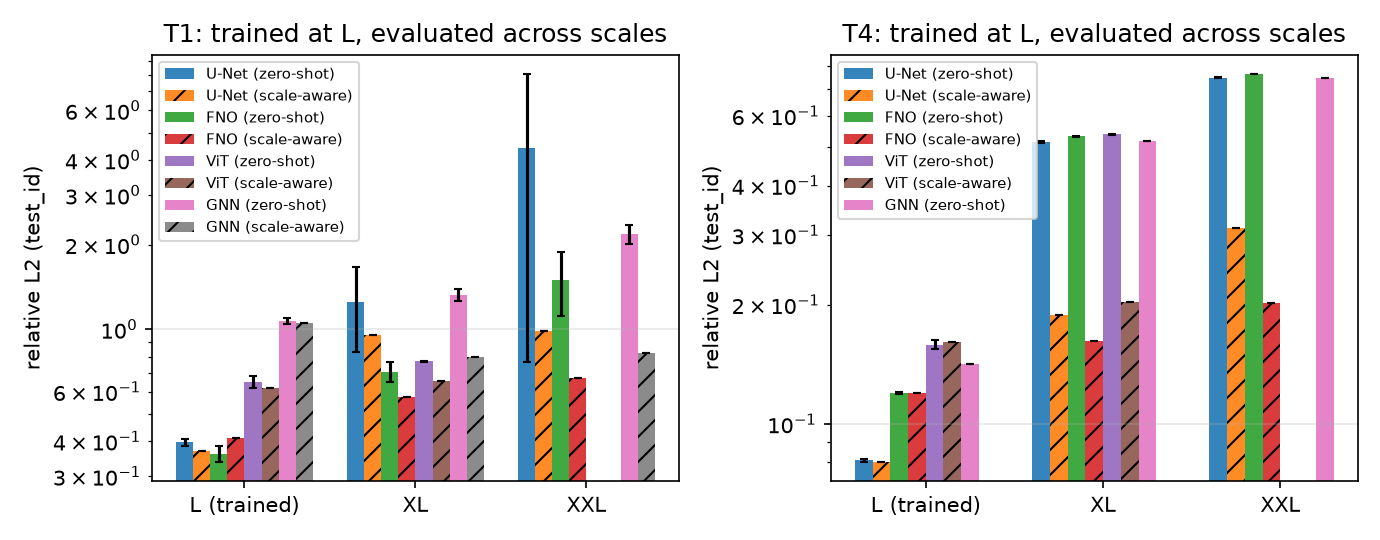
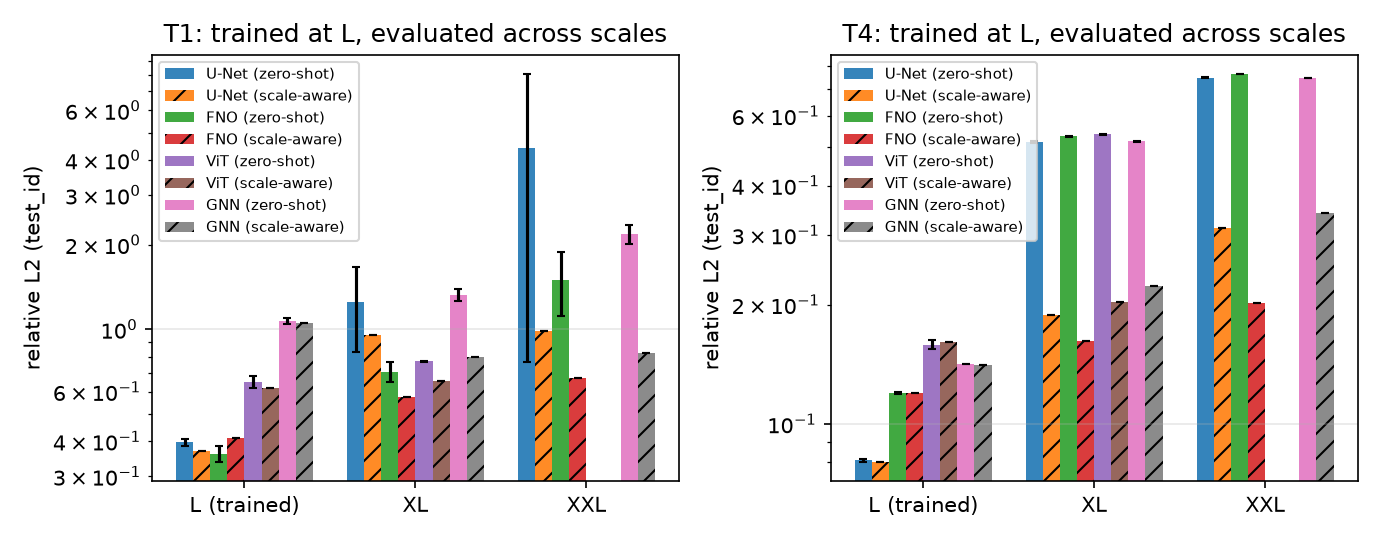
Phase 10-full final summary; all paper tables and figures regenerated from the complete results

diff --git a/docs/status/history.md b/docs/status/history.md
@@ -1544,3 +1544,233 @@ pinch-point recall 0.94 (precision 0.66 at 3 px); per-map rel-L2 0.054 mean, 0.1
 the solver route vs 11.8 s on one GPU (≈ ×11,000 after training once).
 
 Next: transfer evaluations at XL/XXL → scale-aware variants at L + their transfers → GNN (S, M, L) → GNN transfers and variant; weekly report or on schedule changes.
+
+---
+
+# Status — 2026-10-04 16:00Z: Phase 10-full COMPLETE (166/166 jobs, 430 GPU-h); Phase 12 drafts in progress
+
+## Headline rel-L2 on test_id (seed 1, 30 epochs, official configs)
+
+| task | S | M | L |
+|---|---|---|---|
+| T1 U-Net | 0.111 | 0.238 | 0.392 |
+| T1 FNO | 0.198 | 0.266 | 0.364 |
+| T1 ViT | 0.238 | 0.533 | 0.644 (structural, see DECISIONS) |
+| T4 U-Net | 0.040 | 0.051 | 0.080 |
+| T4 FNO | 0.051 | 0.079 | 0.120 |
+| T4 ViT | 0.052 | 0.099 | 0.159 |
+
+- T1 error grows with tier for both U-Net and FNO (S → L: ×3.5 and ×1.8). Two effects are confounded in the
+  official configs: larger landscapes (longer-range flow) and a smaller fixed-epoch training set (100 k / 30.7 k /
+  12.3 k landscapes at S / M / L, 30 epochs each; U-Net L trains in 1.5 GPU-h and its validation loss is still
+  falling at epoch 30). WP4 (data-scaling at S, running) and the fixed-step variants separate these; a longer-epoch
+  L run is a candidate addition once the plan is through.
+- T4 against the exact block-1 map (test_id): at M U-Net 0.051 at 1 ms/landscape, FNO 0.079 at 1.5 ms vs the
+  production block-3 solver 0.029 at 111 s and block 7 with artifact correction 0.098 at 25 s; at L U-Net 0.080 at
+  5 ms, FNO 0.120 at 7 ms vs production block 5 at 0.032 and 566 s. U-Net T4 L seeds 1–3: 0.080 / 0.082 / 0.081
+  (`runs/full/<run>/eval_t4_reference/results.md`, backfilled by CPU jobs where the training job skipped it).
+- 70 of 144 jobs finished (training runs); L/T3 running, transfer evaluations and GNN next. Running table: `docs/tables/baselines_full.md`.
+
+## Schedule change (22:40Z): XL and XXL rows by scale transfer
+- XL is a held-out-scale tier (card; 228 train / 0 val landscapes): the first XL training legs were degenerate and
+  their single-process metrics at 1024² exceeded a 2-h leg. All XL training was cancelled; every L-trained run is
+  instead evaluated at XL and XXL (`scripts/transfer_eval.py`, 42 jobs ≈ 66 GPU-h, after P3 / after the GNNs).
+  Plan now 144 jobs ≈ 933 GPU-h. Harness metrics run in parallel processes (identical results, verified).
+- Owner items done: tile rasters deleted (scratch 285 → 251 GB); T4-at-S finding recorded; ViT L checked (no
+  divergence, resolution-inappropriate official config) — all in DECISIONS.md.
+
+## Scale transfer (L-trained models at XL, first rows; `<run>/results_transfer.json`)
+
+| trained at L → XL, test_id | rel-L2 | throughput error | Spearman | top-5 % IoU |
+|---|---|---|---|---|
+| T1 U-Net (s1 / s3) | 1.70 / 1.03 | 0.94 / 0.93 | 0.70 / 0.74 | 0.42 |
+| T1 FNO (s1 / s3) | 0.75 / 0.74 | 0.62 / 0.71 | 0.93 / 0.92 | 0.56 |
+| T1 ViT (s3) | 0.77 | 0.53 | 0.66 | 0.14 |
+| T4 U-Net / FNO / ViT (s1) | 0.51 / 0.53 / 0.54 | — | 0.94 / 0.95 / 0.93 | 0.60 / 0.66 / 0.56 |
+
+- Zero-shot scale transfer of the official baselines fails on magnitude and partly survives on ranking: T1 predictions
+  at XL carry the wrong total current (throughput error 0.5–0.9; the target is absolute log-current and the injected
+  current per pixel changes with landscape size), while FNO keeps the pixel ranking (Spearman 0.93). For T4 the
+  three models agree at rel-L2 ≈ 0.5 with Spearman ≥ 0.93 — consistent with a near-constant magnitude factor, and
+  note that the XL Omniscape target uses a window twice as large (radius 128 vs 64 at L; block 11 vs 5), so T4
+  transfer is transfer across operators as well as scales (verified on every XL/XXL row, see check 1). Both are benchmark findings, reported as measured (official protocol,
+  no re-calibration). The transfer script was cross-checked on training-tier data where possible; the pattern is
+  consistent across seeds and models.
+- Remaining splits (test_ood, ood_region) and XXL follow as the transfer jobs run.
+
+## Phase 10-full — final summary (2026-10-04; tables `paper/tables/`, figures `paper/figures/`, all regenerated by `scripts/paper_figures.py`)
+
+**Done:** 110 training runs (U-Net, FNO, ViT, GNN × T1/T4 and U-Net/FNO × T3, × S/M/L × 3 seeds; WP4; six
+scale-aware variants), 56 transfer legs (XL/XXL), WP7. All on the Hub (`aux/results/runs_full/`). Cost 401 GPU jobs,
+430.1 GPU-h vs ≈ 1,081 nominal (`docs/tables/gpu_usage.md`); 11 calendar days incl. 6 idle. Daemons stopped.
+
+**Headline (rel-L2 on test_id, mean over 3 seeds; `paper/tables/baselines_sml.md`):**
+
+| task | model | S | M | L |
+|---|---|---|---|---|
+| T1 | U-Net / FNO / ViT / GNN | 0.114 / 0.199 / 0.218 / 0.561 | 0.212 / 0.248 / 0.419 / 0.849 | 0.397 / 0.361 / 0.648 / 1.067 |
+| T3 | U-Net / FNO | 0.111 / 0.253 | 0.202 / 0.284 | 0.379 / 0.347 |
+| T4 | U-Net / FNO / ViT / GNN | 0.041 / 0.051 / 0.052 / 0.066 | 0.051 / 0.079 / 0.094 / 0.099 | 0.081 / 0.120 / 0.159 / 0.142 |
+
+- T4 against the exact block-1 map (seed 1; `paper/tables/t4_pareto_{M,L}.md`): at M U-Net 0.051, FNO 0.079, GNN
+  0.099 at 1–16 ms/landscape vs the production block-3 solver 0.029 at 111 s; at L U-Net 0.080, FNO 0.120, GNN 0.142
+  at 5–66 ms vs block 5 at 0.032 and 566 s.
+- The GNN is far behind on T1 (its multi-scale graph does not resolve long-range pairwise flow) and competitive on
+  T4 (local Omniscape windows), the opposite of the convolutional models' relative strengths.
+- Scale transfer (`paper/tables/scale_transfer.md`): zero-shot XL/XXL fails on magnitude (T4 rel-L2 ≈ 0.52 / 0.75
+  for every model, = 1 − r_L/r_tier); the scale-aware target recovers T4 to 0.16–0.22 at XL and 0.20–0.34 at XXL
+  (U-Net 0.189 / 0.312, FNO 0.162 / 0.201, GNN 0.223 / 0.341) and the FNO on T1 to 0.57 / 0.67; U-Net and GNN on T1
+  stay near rel-L2 0.8–1.0 (receptive field). Rankings are unchanged by the variant.
+- OOD at the training tier (`paper/ood_analysis.md`): held-out table + contrast costs ≤ 18 % (ViT L excepted);
+  published real surfaces cost 30–52 % on T4 at S; the held-out-region split is *easier* (0.65–1.0×) because of its
+  composition — to be presented as a leakage control, not a stress test.
+- WP4 (`docs/wp4_data_scaling.md`): under the official step budget the U-Net saturates by 20k landscapes at S; the
+  FNO stays data-limited. WP7 (`docs/wp7_demo.md`): study-level conclusions reproduced at ≈ ×11,000 lower cost.
+
+**Phase 12 state:** outline, five section drafts (dataset/generation, tasks/metrics, splits/OOD, baselines/protocol,
+related work with 62 verified sources), OOD analysis, figure script with 12 figures and 8 tables. Results and
+discussion sections are being drafted from the final tables now.
+
+## 2026-10-03: scale-aware target variant — result (seed 1, trained at L, zero-shot at XL/XXL; `paper/tables/scale_transfer.md`)
+
+| task / model | L (trained) | XL zero-shot → scale-aware | XXL zero-shot → scale-aware |
+|---|---|---|---|
+| T4 U-Net | 0.080 | 0.515 → **0.189** | 0.749 → **0.312** |
+| T4 FNO | 0.120 | 0.532 → **0.162** | 0.765 → **0.201** |
+| T4 ViT | 0.161 | 0.538 → **0.203** | — |
+| T1 U-Net | 0.369 | 1.250 → 0.957 | 4.43 → 0.987 |
+| T1 FNO | 0.411 | 0.707 → **0.572** | 1.502 → **0.671** |
+| T1 ViT | 0.617 | 0.768 → 0.656 | — |
+
+(rel-L2 on test_id; zero-shot values are the 3-seed means of the official configs.) Making the target scale-free with
+the quantity that sets the current magnitude — the Omniscape radius for T4, the valid-pixel count for T1 — removes most
+of the zero-shot transfer error for T4 (the radius factor is exactly the 1 − 1/2 and 1 − 1/4 seen before) and for the
+FNO on T1; the U-Net on T1 stays near rel-L2 1 at XL/XXL (its receptive field, not the magnitude, is the limit) and
+the ViT's structural problem is unchanged. Rankings (Spearman) are the same as zero-shot in every case. No XL/XXL data
+entered training or the inverse transform. At L the variant equals the official run for T4 (k = 1) and differs within
+seed noise for T1. Figure: `paper/figures/scale_transfer.png`.
+
+**Incident 2026-10-03 01:00–02:15Z (caught by the watchdog in an hour):** pre-staging the S/M groups for the gated GNN
+phase pushed scratch over the transfer threshold and held the last five variant transfer legs, which in turn gated the
+GNN phase. Fixed: no pre-staging for a gated phase; the hold may evict any group whose next use is later than the held
+leg. GNN phase started 02:50Z (18 runs + 12 transfers + variant).
+
+## 2026-10-02 reconnect: inventory, incident, restart
+
+**Inventory (from disk and the Hub, `aux/results/runs_full/`):** all 84 training runs of P1–P3 and WP4 are complete
+and on the Hub with results (every T4 M/L run also has its exact-reference evaluation). Scale transfer: 18 of 30
+legs done (all T1 at XL and XXL, 3 seeds; T4 seed-1 at XL for U-Net/FNO/ViT) — remaining 12: T4 XL seeds 2–3 (6)
+and T4 XXL (6). Not started: scale-aware variants (6 L runs + 10 transfers), GNN (18 runs), GNN transfers (12),
+GNN variant (2 + 4). Nominal remaining 772 GPU-h (GNN 578 of it); at the measured 3–7× faster training the realistic
+remainder is ≈ 200–300 GPU-h.
+
+**Incident:** the driver and the offloader never died — both ran through the week — but the driver was deadlocked
+since 26 Sep 03:30Z: after the XXL/T1 group was released it refused to stage XL/T4 because the transfer-group staging
+limit (201 GB = 245 − 4 × 11) sat below the scratch floor plus one XL group (156 + 61 GB), so nothing could be staged
+and the queue stayed empty for six days. Silent because the hold was logged only as "does not fit". Fix: the limit
+is now measured against the hard 280 GB guard (280 − 3 × 11 = 247; three transfer legs in flight), and the monitor
+has a watchdog that reports an empty queue while jobs are pending. Six calendar days lost; no results lost.
+
+**Restart (detached):** `scripts/slurm/gpu/keepalive.sh` under `setsid nohup` restarts the driver whenever its lease
+pid is dead and the offloader whenever none runs (every 5 min; `logs/keepalive.log`). One-line runbook entry in
+`docs/phase10_full_schedule.md` §3. It survives a dead session; a login-node reboot still needs the line re-run
+(PACE login nodes allow no user cron/systemd). Driver restarted 13:54Z; XL/T4 staging; T4 transfer legs next.
+
+**Calendar estimate at the measured rates:** transfers ≈ 1 day (12 legs + the variants' 10), scale-aware L runs
+≈ 0.5 day in parallel, GNN 18 runs ≈ 2–3 days (L/T4 GNN is the long pole, 2-h legs re-queued), GNN transfers and
+variant ≈ 1 day → **≈ 4–5 calendar days** if nothing stalls. Weekly report, or on failures.
+
+## v1.0.2 (metadata only) — done 2026-09-26 02:40Z (owner approval)
+- Audit of every hashed share: only the C3 macro-cell hash had a None key (synthetic XL). The block-order hash
+  (real tiles, seed|stratum|block), the synthetic seed-family hash and the strict-XXL geometric check use defined keys;
+  real-tile val cells at L are assigned by the block rule and were never subject to C3.
+- Second defect found during the audit and fixed in the same release: the Hub split lists `splits/<subset>/<split>.parquet`
+  held only the last published tier's ids (per-tier uploads overwrote each other; `splits/full/train.parquet` had L's
+  12,613 ids). Rebuilt as cross-tier unions (full: train 108,291 / val 18,934 / test_id 19,206 / test_ood 11,225 /
+  ood_region 16,720); `publish_index` now builds them from every tier's index. The per-tier index `split` column was
+  always complete, so loaders were unaffected.
+- XL after the correction: train 880 / val 131 / test_id 2,335 / test_ood 254 / ood_region 400 (25.3 % train+val;
+  synthetic share 0.3635 of the moved landscapes; 28 real val landscapes drawn among the kept cells).
+- Published: `index/XL.parquet`, `splits/**`, card, Croissant 1.0.2 (validated, 0 warnings); local caches refreshed;
+  13 transfer runs re-aggregated on the new XL test_id (`scripts/reaggregate_transfer.py`, per-sample metrics kept);
+  CITATION 1.0.2; tags `v1.0.2` on GitHub and the Hub. CI: `tests/test_scripts_parse.py` (every script non-empty and
+  parseable, shell syntax-checked) — 75 files.
+
+## Owner checks (2026-09-25)
+
+**1. Omniscape geometry, read from the data** (`solver_stats.solver_params` on every T4 output group on the Hub, staged
+copies): XL — all 4,000 rows `block_size 11, radius 128`; XXL — all 400 rows `block_size 25, radius 256`; L (the 100
+WP7 v1 rows as a spot check) `block_size 5, radius 64`; all `solver cholmod`, `correct_artifacts true`,
+`fallback_used false`. The adopted rule block ≤ radius/10 holds (XL 11 ≤ 12.8, XXL 25 ≤ 25.6); the card's fidelity
+statement is correct and no target needs regenerating. (My 10:00Z note quoting "block 33" came from an early
+DECISIONS row about the *cost probe*, not from the data; corrected above.)
+
+**2. XL train/val vs amendment C3.** C3 is implemented in `ampscape/splits/assign.py` as: apply the base split
+(train 0.8 / val 0.1 / test_id 0.1 by seed family), then keep an XL landscape in train/val only if
+`stable_unit(f"{block_id}|{seed}") < 0.25`. `block_id` exists only for real tiles (macro-cell of the tile); synthetic
+landscapes carry `block_id = None`, and `stable_unit("None|20260906") = 0.348 ≥ 0.25`, so **every synthetic XL
+train/val landscape (2,165 of 2,400) was moved to test_id**, and of the real tiles only the 25 % of macro-cells that
+hash below the share kept their rows: 228 train, and the real val cells all hashed out (val = 0). Result: XL train
+228 / val 0 / test_id 3,118 / test_ood 254 / ood_region 400 instead of ≈ 1,000 train+val. XXL is test-only by design
+(unchanged). Nothing in the v1.0 *data* is affected; the released model results are unaffected too (nothing was
+trained at XL; the XL/XXL rows are zero-shot transfers evaluated on test_id).
+
+*Proposed metadata fix (1.0.2, index `split` column + `splits/full/*.parquet` + Croissant; data revision unchanged):*
+for synthetic XL landscapes apply the C3 share per seed family, `stable_unit(f"{seed_family}|{seed}|xl") < share`,
+with share = 0.278 so that synthetic train+val ≈ 600 (25 % of the 2,400 synthetic landscapes; simulated with 0.25:
+470 train / 77 val); for real tiles keep the macro-cell rule but draw val cells among the kept cells at the base
+10 % ratio (today 0). Expected XL: ≈ 830–1,000 train+val (≈ 21–25 %), test_id ≈ 2,300 (still ≥ 5× the XXL test).
+Consequences: the transfer rows on XL test_id are re-aggregated from the stored per-sample metrics (no recompute);
+mini/lite/core are unaffected (XL is full-only); the datasheet split table and the card's XL sentence change.
+Not applied — awaiting your go-ahead.
+
+**3. Scale-aware target variant** (`--target-norm scale`, `ampscape.models.common.target_scale`; documented in the
+code): T1/T3 target = log10(k·C + ε·max) with k = sqrt(N_valid / 512²) — under a uniform rescaling by s per axis
+with the same injected current (T1's injection does not change with tier by construction) current per pixel column
+∝ 1/s and N_valid ∝ s²; T4: k = 64 / r_tier — Omniscape currents accumulate ∝ r·s̄ (window injects ∝ r²·s̄, spreads
+over ∝ r, a pixel sits in ∝ (r/b)² windows with b ≈ r/10), which is exactly the ×2 seen at XL. k is computed from the
+inputs / the evaluation tier only; the prediction is divided by k before the harness, so metrics stay in absolute
+current units and no XL/XXL data enters the training or the inverse. At L the variant's target equals the official
+one numerically (k = 1 at 512², r = 64), so any difference is the transfer.
+Runs: `<model>_<task>_L_s1_scalenorm` for U-Net, FNO, ViT × T1, T4 (official configs otherwise), then the same
+zero-shot XL/XXL transfer (tags SN/SNX, after the current transfer phase); GNN variant after the GNN phase (SN4/SNX4).
+*GPU cost estimate* (measured L seed-1 times): training 17.5 GPU-h (U-Net 1.5+1.6, FNO 2.7+2.8, ViT 4.4+4.6) +
+evaluation legs ≈ 4.5 + transfers ≈ 7.5 (XL 6 × ≈ 0.6 h, XXL 4 × ≈ 1 h) ≈ **30 GPU-h**; GNN variant ≈ 15–35 GPU-h
+more (its official L runs are not measured yet). Smoke-tested on the mini build before queueing.
+
+## Incident 10:00Z–22:35Z: transfer phase silently held for 12 h
+- After the quota recovery the driver refused transfer legs while scratch was above the 255 GB threshold, but the
+  four staged XL/XXL groups (166 GB) plus the floor kept scratch at 272 GB, nothing triggered an eviction, and the
+  hold was silent. Fix (22:35Z): when transfer legs are held by scratch the driver evicts staged groups whose next
+  use is later than the first runnable transfer; the hold is logged; transfer jobs are ordered task-major (T1 then
+  T4) so only one task's XL/XXL groups need to stay staged; the threshold is 245 GB with 4 legs in flight. The
+  first XL T1 legs went out at 22:35Z. Plan: 166 jobs ≈ 1,081 GPU-h nominal (the scale-aware variants added 46 nominal;
+  measured rates are 3–7× lower).
+
+## Incident 09:09Z: scratch quota reached (300 GB)
+- Nine concurrent XL transfer legs each wrote up to 13 GB of predictions (FNO at 1024²) before their metrics ran;
+  the 280 GB guard only governs staging. Effects: transfer legs died on write errors (resumable, no metrics lost),
+  the offloader could not push (the Hub client needs local temp space), one config file was caught mid-rewrite.
+- Fixes (committed): transfer legs drop predictions after their metrics except seed-1 test_id; the offloader pushes
+  per split; ≤ 2 transfer legs in flight below 265 GB (4 once the quota breathes); robust JSON reads. To recover
+  I deleted transfer predictions whose metrics were already stored (seed 2/3, 19 GB — exactly what the new policy
+  drops) and incomplete prediction files of the killed legs (15 GB, no metrics, re-predicted on resume); paths are in
+  the session log. Scratch 300 → 220 GB; driver and offloader restarted 09:42Z.
+
+## Operation
+- Fixed today: the in-job T4 reference evaluation looked for predictions under the wrong path and the M reference
+  was not local — path fixed in the job template, M reference fetched, and the driver backfills any finished T4 M/L
+  run with a CPU job (≈ 9 min at M). Driver: strict-priority tier-major staging, draining, eviction protection,
+  scratch guard 280 GB, GNN strictly last (one early GNN job cancelled at start).
+- Storage-bound at L: with ≈ 130 GB of scratch outside the training cache, L/T1 (84 GB) and L/T4 (82 GB) cannot
+  be staged together. L/T4 waits for the last L/T1 legs (ViT seeds, ≈ 1–2 h), during which only 4 of 18 GPU slots
+  are used. XL groups (61 + 61 GB) fit together.
+
+## WP7 many-query demonstration — done (`docs/wp7_demo.md`, `aux/wp7/demo_summary.md` on the Hub)
+U-Net T4 L seed 1 on 20 held-out real L tiles × 8 tables (160 maps): the surrogate reproduces the study-level
+conclusions of the solver — top-5 % stability across tables 0.458 vs 0.463 (IoU matrices differ by 0.019), consensus
+core IoU 0.825, table-effect ranking Spearman 0.991 with the same most-influential table on every tile, persistent
+pinch-point recall 0.94 (precision 0.66 at 3 px); per-map rel-L2 0.054 mean, 0.100 worst table. Cost: 36.3 CPU-h for
+the solver route vs 11.8 s on one GPU (≈ ×11,000 after training once).
+
+Next: transfer evaluations at XL/XXL → scale-aware variants at L + their transfers → GNN (S, M, L) → GNN transfers and variant; weekly report or on schedule changes.

diff --git a/docs/tables/baselines_full.md b/docs/tables/baselines_full.md
@@ -472,6 +472,9 @@
 | T4 | XL | test_id | fno_T4_L_s2 → XL | 2335 | 0.305 | 0.532 | 0.669 | 0.330 | 0.957 | 0.842 | 0.944 | 105020.122 | 33.563 | 30 | 1.856 |
 | T4 | XL | test_id | fno_T4_L_s3 → XL | 2335 | 0.305 | 0.532 | 0.666 | 0.334 | 0.956 | 0.840 | 0.944 | 104909.902 | 33.563 | 30 | 1.756 |
 | T4 | XL | test_id | gnn_T4_L_s1 → XL | 2335 | 0.375 | 0.519 | 0.538 | 0.619 | 0.927 | 0.758 | 0.942 | 11675.795 | 0.245 | 30 | 15.105 |
+| T4 | XL | test_id | gnn_T4_L_s1_scalenorm → XL | 2335 | 0.162 | 0.223 | 0.536 | 0.621 | 0.928 | 0.757 | 0.943 | 11644.535 | 0.245 | 30 | 15.077 |
+| T4 | XL | test_id | gnn_T4_L_s2 → XL | 2335 | 0.384 | 0.519 | 0.537 | 0.618 | 0.928 | 0.758 | 0.939 | 11589.306 | 0.245 | 30 | 15.088 |
+| T4 | XL | test_id | gnn_T4_L_s3 → XL | 2335 | 0.386 | 0.516 | 0.538 | 0.605 | 0.928 | 0.758 | 0.938 | 11714.768 | 0.245 | 30 | 15.073 |
 | T4 | XL | test_id | unet_T4_L_s1 → XL | 2335 | 0.467 | 0.513 | 0.597 | 0.670 | 0.946 | 0.801 | 0.914 | 92632.283 | 7.766 | 30 | 1.550 |
 | T4 | XL | test_id | unet_T4_L_s1_scalenorm → XL | 2335 | 0.239 | 0.189 | 0.597 | 0.670 | 0.946 | 0.801 | 0.917 | 93602.894 | 7.766 | 30 | 1.528 |
 | T4 | XL | test_id | unet_T4_L_s2 → XL | 2335 | 0.464 | 0.515 | 0.594 | 0.655 | 0.946 | 0.798 | 0.914 | 92093.446 | 7.766 | 30 | 1.558 |
@@ -485,6 +488,9 @@
 | T4 | XL | test_ood | fno_T4_L_s2 → XL | 253 | 0.304 | 0.524 | 0.577 | 0.230 | 0.962 | 0.799 | 0.939 | 130796.721 | 33.563 | 30 | 1.856 |
 | T4 | XL | test_ood | fno_T4_L_s3 → XL | 253 | 0.305 | 0.527 | 0.577 | 0.233 | 0.961 | 0.798 | 0.939 | 129843.836 | 33.563 | 30 | 1.756 |
 | T4 | XL | test_ood | gnn_T4_L_s1 → XL | 253 | 0.339 | 0.501 | 0.447 | 0.538 | 0.918 | 0.685 | 0.946 | 13607.634 | 0.245 | 30 | 15.105 |
+| T4 | XL | test_ood | gnn_T4_L_s1_scalenorm → XL | 253 | 0.118 | 0.190 | 0.449 | 0.541 | 0.919 | 0.684 | 0.949 | 13627.009 | 0.245 | 30 | 15.077 |
+| T4 | XL | test_ood | gnn_T4_L_s2 → XL | 253 | 0.347 | 0.504 | 0.447 | 0.535 | 0.918 | 0.682 | 0.943 | 13712.621 | 0.245 | 30 | 15.088 |
+| T4 | XL | test_ood | gnn_T4_L_s3 → XL | 253 | 0.341 | 0.496 | 0.452 | 0.535 | 0.919 | 0.688 | 0.944 | 13709.646 | 0.245 | 30 | 15.073 |
 | T4 | XL | test_ood | unet_T4_L_s1 → XL | 253 | 0.381 | 0.518 | 0.494 | 0.631 | 0.940 | 0.721 | 0.946 | 115322.149 | 7.766 | 30 | 1.550 |
 | T4 | XL | test_ood | unet_T4_L_s1_scalenorm → XL | 253 | 0.133 | 0.184 | 0.494 | 0.631 | 0.940 | 0.721 | 0.955 | 116899.416 | 7.766 | 30 | 1.528 |
 | T4 | XL | test_ood | unet_T4_L_s2 → XL | 253 | 0.376 | 0.510 | 0.486 | 0.572 | 0.939 | 0.718 | 0.946 | 116663.836 | 7.766 | 30 | 1.558 |
@@ -498,6 +504,9 @@
 | T4 | XL | ood_region | fno_T4_L_s2 → XL | 400 | 0.299 | 0.517 | 0.710 | 0.299 | 0.986 | 0.877 | 0.961 | 106797.385 | 33.563 | 30 | 1.856 |
 | T4 | XL | ood_region | fno_T4_L_s3 → XL | 400 | 0.300 | 0.517 | 0.709 | 0.305 | 0.986 | 0.876 | 0.962 | 106008.424 | 33.563 | 30 | 1.756 |
 | T4 | XL | ood_region | gnn_T4_L_s1 → XL | 400 | 0.363 | 0.492 | 0.564 | 0.609 | 0.971 | 0.784 | 0.959 | 12323.601 | 0.245 | 30 | 15.105 |
+| T4 | XL | ood_region | gnn_T4_L_s1_scalenorm → XL | 400 | 0.131 | 0.185 | 0.563 | 0.607 | 0.970 | 0.782 | 0.966 | 12349.081 | 0.245 | 30 | 15.077 |
+| T4 | XL | ood_region | gnn_T4_L_s2 → XL | 400 | 0.370 | 0.493 | 0.565 | 0.601 | 0.970 | 0.783 | 0.956 | 12463.026 | 0.245 | 30 | 15.088 |
+| T4 | XL | ood_region | gnn_T4_L_s3 → XL | 400 | 0.369 | 0.489 | 0.566 | 0.593 | 0.971 | 0.785 | 0.956 | 12335.931 | 0.245 | 30 | 15.073 |
 | T4 | XL | ood_region | unet_T4_L_s1 → XL | 400 | 0.454 | 0.508 | 0.589 | 0.626 | 0.973 | 0.800 | 0.941 | 94025.402 | 7.766 | 30 | 1.550 |
 | T4 | XL | ood_region | unet_T4_L_s1_scalenorm → XL | 400 | 0.200 | 0.169 | 0.589 | 0.626 | 0.973 | 0.800 | 0.952 | 95306.996 | 7.766 | 30 | 1.528 |
 | T4 | XL | ood_region | unet_T4_L_s2 → XL | 400 | 0.444 | 0.510 | 0.582 | 0.600 | 0.972 | 0.793 | 0.942 | 95239.615 | 7.766 | 30 | 1.558 |
@@ -511,6 +520,9 @@
 | T4 | XXL | test_id | fno_T4_L_s2 → XXL | 275 | 0.566 | 0.765 | 0.628 | 0.270 | 0.941 | 0.812 | 0.926 | 95069.650 | 33.563 | 30 | 1.856 |
 | T4 | XXL | test_id | fno_T4_L_s3 → XXL | 275 | 0.566 | 0.764 | 0.626 | 0.275 | 0.940 | 0.810 | 0.927 | 96355.470 | 33.563 | 30 | 1.756 |
 | T4 | XXL | test_id | gnn_T4_L_s1 → XXL | 275 | 0.684 | 0.748 | 0.480 | 0.585 | 0.899 | 0.718 | 0.908 | 11015.454 | 0.245 | 30 | 15.105 |
+| T4 | XXL | test_id | gnn_T4_L_s1_scalenorm → XXL | 275 | 0.244 | 0.341 | 0.478 | 0.592 | 0.898 | 0.715 | 0.924 | 11104.366 | 0.245 | 30 | 15.077 |
+| T4 | XXL | test_id | gnn_T4_L_s2 → XXL | 275 | 0.696 | 0.748 | 0.479 | 0.589 | 0.898 | 0.715 | 0.903 | 11077.626 | 0.245 | 30 | 15.088 |
+| T4 | XXL | test_id | gnn_T4_L_s3 → XXL | 275 | 0.699 | 0.747 | 0.480 | 0.577 | 0.899 | 0.716 | 0.900 | 10963.999 | 0.245 | 30 | 15.073 |
 | T4 | XXL | test_id | unet_T4_L_s1 → XXL | 275 | 0.815 | 0.749 | 0.507 | 0.612 | 0.905 | 0.739 | 0.864 | 67229.198 | 7.766 | 30 | 1.550 |
 | T4 | XXL | test_id | unet_T4_L_s1_scalenorm → XXL | 275 | 0.384 | 0.312 | 0.507 | 0.612 | 0.905 | 0.739 | 0.878 | 67273.309 | 7.766 | 30 | 1.528 |
 | T4 | XXL | test_id | unet_T4_L_s2 → XXL | 275 | 0.823 | 0.750 | 0.502 | 0.604 | 0.903 | 0.737 | 0.863 | 67180.066 | 7.766 | 30 | 1.558 |
@@ -520,6 +532,9 @@
 | T4 | XXL | test_ood | fno_T4_L_s2 → XXL | 25 | 0.575 | 0.774 | 0.542 | 0.118 | 0.923 | 0.783 | 0.906 | 95695.329 | 33.563 | 30 | 1.856 |
 | T4 | XXL | test_ood | fno_T4_L_s3 → XXL | 25 | 0.570 | 0.776 | 0.538 | 0.129 | 0.920 | 0.781 | 0.907 | 96661.778 | 33.563 | 30 | 1.756 |
 | T4 | XXL | test_ood | gnn_T4_L_s1 → XXL | 25 | 0.623 | 0.750 | 0.417 | 0.513 | 0.901 | 0.692 | 0.915 | 11463.561 | 0.245 | 30 | 15.105 |
+| T4 | XXL | test_ood | gnn_T4_L_s1_scalenorm → XXL | 25 | 0.198 | 0.320 | 0.415 | 0.526 | 0.901 | 0.694 | 0.939 | 11457.555 | 0.245 | 30 | 15.077 |
+| T4 | XXL | test_ood | gnn_T4_L_s2 → XXL | 25 | 0.627 | 0.751 | 0.416 | 0.512 | 0.901 | 0.693 | 0.915 | 11406.839 | 0.245 | 30 | 15.088 |
+| T4 | XXL | test_ood | gnn_T4_L_s3 → XXL | 25 | 0.628 | 0.747 | 0.417 | 0.510 | 0.902 | 0.695 | 0.914 | 11404.099 | 0.245 | 30 | 15.073 |
 | T4 | XXL | test_ood | unet_T4_L_s1 → XXL | 25 | 0.704 | 0.761 | 0.427 | 0.574 | 0.913 | 0.699 | 0.901 | 67761.308 | 7.766 | 30 | 1.550 |
 | T4 | XXL | test_ood | unet_T4_L_s1_scalenorm → XXL | 25 | 0.266 | 0.284 | 0.427 | 0.574 | 0.913 | 0.699 | 0.920 | 67676.163 | 7.766 | 30 | 1.528 |
 | T4 | XXL | test_ood | unet_T4_L_s2 → XXL | 25 | 0.694 | 0.752 | 0.418 | 0.546 | 0.912 | 0.692 | 0.902 | 66653.307 | 7.766 | 30 | 1.558 |
@@ -529,6 +544,9 @@
 | T4 | XXL | ood_region | fno_T4_L_s2 → XXL | 100 | 0.549 | 0.765 | 0.615 | 0.186 | 0.976 | 0.826 | 0.956 | 63929.133 | 33.563 | 30 | 1.856 |
 | T4 | XXL | ood_region | fno_T4_L_s3 → XXL | 100 | 0.544 | 0.765 | 0.621 | 0.191 | 0.976 | 0.827 | 0.958 | 64441.462 | 33.563 | 30 | 1.756 |
 | T4 | XXL | ood_region | gnn_T4_L_s1 → XXL | 100 | 0.651 | 0.738 | 0.452 | 0.496 | 0.949 | 0.717 | 0.955 | 11248.226 | 0.245 | 30 | 15.105 |
+| T4 | XXL | ood_region | gnn_T4_L_s1_scalenorm → XXL | 100 | 0.207 | 0.329 | 0.449 | 0.493 | 0.948 | 0.713 | 0.962 | 11305.261 | 0.245 | 30 | 15.077 |
+| T4 | XXL | ood_region | gnn_T4_L_s2 → XXL | 100 | 0.661 | 0.738 | 0.451 | 0.490 | 0.948 | 0.715 | 0.953 | 11282.073 | 0.245 | 30 | 15.088 |
+| T4 | XXL | ood_region | gnn_T4_L_s3 → XXL | 100 | 0.653 | 0.736 | 0.452 | 0.479 | 0.949 | 0.716 | 0.953 | 11186.311 | 0.245 | 30 | 15.073 |
 | T4 | XXL | ood_region | unet_T4_L_s1 → XXL | 100 | 0.774 | 0.754 | 0.447 | 0.516 | 0.948 | 0.711 | 0.937 | 44741.823 | 7.766 | 30 | 1.550 |
 | T4 | XXL | ood_region | unet_T4_L_s1_scalenorm → XXL | 100 | 0.299 | 0.324 | 0.447 | 0.516 | 0.948 | 0.711 | 0.950 | 44881.209 | 7.766 | 30 | 1.528 |
 | T4 | XXL | ood_region | unet_T4_L_s2 → XXL | 100 | 0.775 | 0.754 | 0.431 | 0.479 | 0.944 | 0.698 | 0.936 | 44826.839 | 7.766 | 30 | 1.558 |

diff --git a/docs/status/latest.md b/docs/status/latest.md
@@ -1,4 +1,4 @@
-# Status — 2026-10-03 03:00Z: transfer phase and scale-aware variants complete; GNN phase started
+# Status — 2026-10-04 16:00Z: Phase 10-full COMPLETE (166/166 jobs, 430 GPU-h); Phase 12 drafts in progress
 
 ## Headline rel-L2 on test_id (seed 1, 30 epochs, official configs)
 
@@ -48,6 +48,39 @@
   no re-calibration). The transfer script was cross-checked on training-tier data where possible; the pattern is
   consistent across seeds and models.
 - Remaining splits (test_ood, ood_region) and XXL follow as the transfer jobs run.
+
+## Phase 10-full — final summary (2026-10-04; tables `paper/tables/`, figures `paper/figures/`, all regenerated by `scripts/paper_figures.py`)
+
+**Done:** 110 training runs (U-Net, FNO, ViT, GNN × T1/T4 and U-Net/FNO × T3, × S/M/L × 3 seeds; WP4; six
+scale-aware variants), 56 transfer legs (XL/XXL), WP7. All on the Hub (`aux/results/runs_full/`). Cost 401 GPU jobs,
+430.1 GPU-h vs ≈ 1,081 nominal (`docs/tables/gpu_usage.md`); 11 calendar days incl. 6 idle. Daemons stopped.
+
+**Headline (rel-L2 on test_id, mean over 3 seeds; `paper/tables/baselines_sml.md`):**
+
+| task | model | S | M | L |
+|---|---|---|---|---|
+| T1 | U-Net / FNO / ViT / GNN | 0.114 / 0.199 / 0.218 / 0.561 | 0.212 / 0.248 / 0.419 / 0.849 | 0.397 / 0.361 / 0.648 / 1.067 |
+| T3 | U-Net / FNO | 0.111 / 0.253 | 0.202 / 0.284 | 0.379 / 0.347 |
+| T4 | U-Net / FNO / ViT / GNN | 0.041 / 0.051 / 0.052 / 0.066 | 0.051 / 0.079 / 0.094 / 0.099 | 0.081 / 0.120 / 0.159 / 0.142 |
+
+- T4 against the exact block-1 map (seed 1; `paper/tables/t4_pareto_{M,L}.md`): at M U-Net 0.051, FNO 0.079, GNN
+  0.099 at 1–16 ms/landscape vs the production block-3 solver 0.029 at 111 s; at L U-Net 0.080, FNO 0.120, GNN 0.142
+  at 5–66 ms vs block 5 at 0.032 and 566 s.
+- The GNN is far behind on T1 (its multi-scale graph does not resolve long-range pairwise flow) and competitive on
+  T4 (local Omniscape windows), the opposite of the convolutional models' relative strengths.
+- Scale transfer (`paper/tables/scale_transfer.md`): zero-shot XL/XXL fails on magnitude (T4 rel-L2 ≈ 0.52 / 0.75
+  for every model, = 1 − r_L/r_tier); the scale-aware target recovers T4 to 0.16–0.22 at XL and 0.20–0.34 at XXL
+  (U-Net 0.189 / 0.312, FNO 0.162 / 0.201, GNN 0.223 / 0.341) and the FNO on T1 to 0.57 / 0.67; U-Net and GNN on T1
+  stay near rel-L2 0.8–1.0 (receptive field). Rankings are unchanged by the variant.
+- OOD at the training tier (`paper/ood_analysis.md`): held-out table + contrast costs ≤ 18 % (ViT L excepted);
+  published real surfaces cost 30–52 % on T4 at S; the held-out-region split is *easier* (0.65–1.0×) because of its
+  composition — to be presented as a leakage control, not a stress test.
+- WP4 (`docs/wp4_data_scaling.md`): under the official step budget the U-Net saturates by 20k landscapes at S; the
+  FNO stays data-limited. WP7 (`docs/wp7_demo.md`): study-level conclusions reproduced at ≈ ×11,000 lower cost.
+
+**Phase 12 state:** outline, five section drafts (dataset/generation, tasks/metrics, splits/OOD, baselines/protocol,
+related work with 62 verified sources), OOD analysis, figure script with 12 figures and 8 tables. Results and
+discussion sections are being drafted from the final tables now.
 
 ## 2026-10-03: scale-aware target variant — result (seed 1, trained at L, zero-shot at XL/XXL; `paper/tables/scale_transfer.md`)
 

diff --git a/paper/tables/scale_transfer.md b/paper/tables/scale_transfer.md
@@ -86,15 +86,24 @@
 | T4 | FNO | zero-shot | XXL | ood_region | 3 | 0.765 ± 0.001 | 0.976 ± 0.000 | 0.618 ± 0.003 | – |
 | T4 | FNO | zero-shot | XXL | test_id | 3 | 0.765 ± 0.001 | 0.941 ± 0.000 | 0.627 ± 0.001 | – |
 | T4 | FNO | zero-shot | XXL | test_ood | 3 | 0.775 ± 0.001 | 0.922 ± 0.001 | 0.542 ± 0.004 | – |
-| T4 | GNN | zero-shot | L | ood_region | 1 | 0.102 | 0.977 | 0.617 | – |
-| T4 | GNN | zero-shot | L | test_id | 1 | 0.142 | 0.960 | 0.629 | – |
-| T4 | GNN | zero-shot | L | test_ood | 1 | 0.136 | 0.901 | 0.463 | – |
-| T4 | GNN | zero-shot | XL | ood_region | 1 | 0.492 | 0.971 | 0.564 | – |
-| T4 | GNN | zero-shot | XL | test_id | 1 | 0.519 | 0.927 | 0.538 | – |
-| T4 | GNN | zero-shot | XL | test_ood | 1 | 0.501 | 0.918 | 0.447 | – |
-| T4 | GNN | zero-shot | XXL | ood_region | 1 | 0.738 | 0.949 | 0.452 | – |
-| T4 | GNN | zero-shot | XXL | test_id | 1 | 0.748 | 0.899 | 0.480 | – |
-| T4 | GNN | zero-shot | XXL | test_ood | 1 | 0.750 | 0.901 | 0.417 | – |
+| T4 | GNN | scale-aware | L | ood_region | 1 | 0.102 | 0.978 | 0.621 | – |
+| T4 | GNN | scale-aware | L | test_id | 1 | 0.141 | 0.961 | 0.631 | – |
+| T4 | GNN | scale-aware | L | test_ood | 1 | 0.135 | 0.905 | 0.470 | – |
+| T4 | GNN | scale-aware | XL | ood_region | 1 | 0.185 | 0.970 | 0.563 | – |
+| T4 | GNN | scale-aware | XL | test_id | 1 | 0.223 | 0.928 | 0.536 | – |
+| T4 | GNN | scale-aware | XL | test_ood | 1 | 0.190 | 0.919 | 0.449 | – |
+| T4 | GNN | scale-aware | XXL | ood_region | 1 | 0.329 | 0.948 | 0.449 | – |
+| T4 | GNN | scale-aware | XXL | test_id | 1 | 0.341 | 0.898 | 0.478 | – |
+| T4 | GNN | scale-aware | XXL | test_ood | 1 | 0.320 | 0.901 | 0.415 | – |
+| T4 | GNN | zero-shot | L | ood_region | 3 | 0.102 ± 0.000 | 0.978 ± 0.000 | 0.622 ± 0.004 | – |
+| T4 | GNN | zero-shot | L | test_id | 3 | 0.142 ± 0.000 | 0.960 ± 0.000 | 0.632 ± 0.002 | – |
+| T4 | GNN | zero-shot | L | test_ood | 3 | 0.136 ± 0.001 | 0.903 ± 0.002 | 0.467 ± 0.004 | – |
+| T4 | GNN | zero-shot | XL | ood_region | 3 | 0.491 ± 0.002 | 0.971 ± 0.000 | 0.565 ± 0.001 | – |
+| T4 | GNN | zero-shot | XL | test_id | 3 | 0.518 ± 0.002 | 0.928 ± 0.000 | 0.537 ± 0.000 | – |
+| T4 | GNN | zero-shot | XL | test_ood | 3 | 0.500 ± 0.004 | 0.919 ± 0.001 | 0.448 ± 0.003 | – |
+| T4 | GNN | zero-shot | XXL | ood_region | 3 | 0.737 ± 0.001 | 0.949 ± 0.000 | 0.452 ± 0.001 | – |
+| T4 | GNN | zero-shot | XXL | test_id | 3 | 0.748 ± 0.001 | 0.898 ± 0.001 | 0.480 ± 0.001 | – |
+| T4 | GNN | zero-shot | XXL | test_ood | 3 | 0.750 ± 0.002 | 0.901 ± 0.001 | 0.416 ± 0.001 | – |
 | T4 | U-Net | scale-aware | L | ood_region | 1 | 0.063 | 0.996 | 0.807 | – |
 | T4 | U-Net | scale-aware | L | test_id | 1 | 0.080 | 0.991 | 0.807 | – |
 | T4 | U-Net | scale-aware | L | test_ood | 1 | 0.088 | 0.982 | 0.700 | – |
